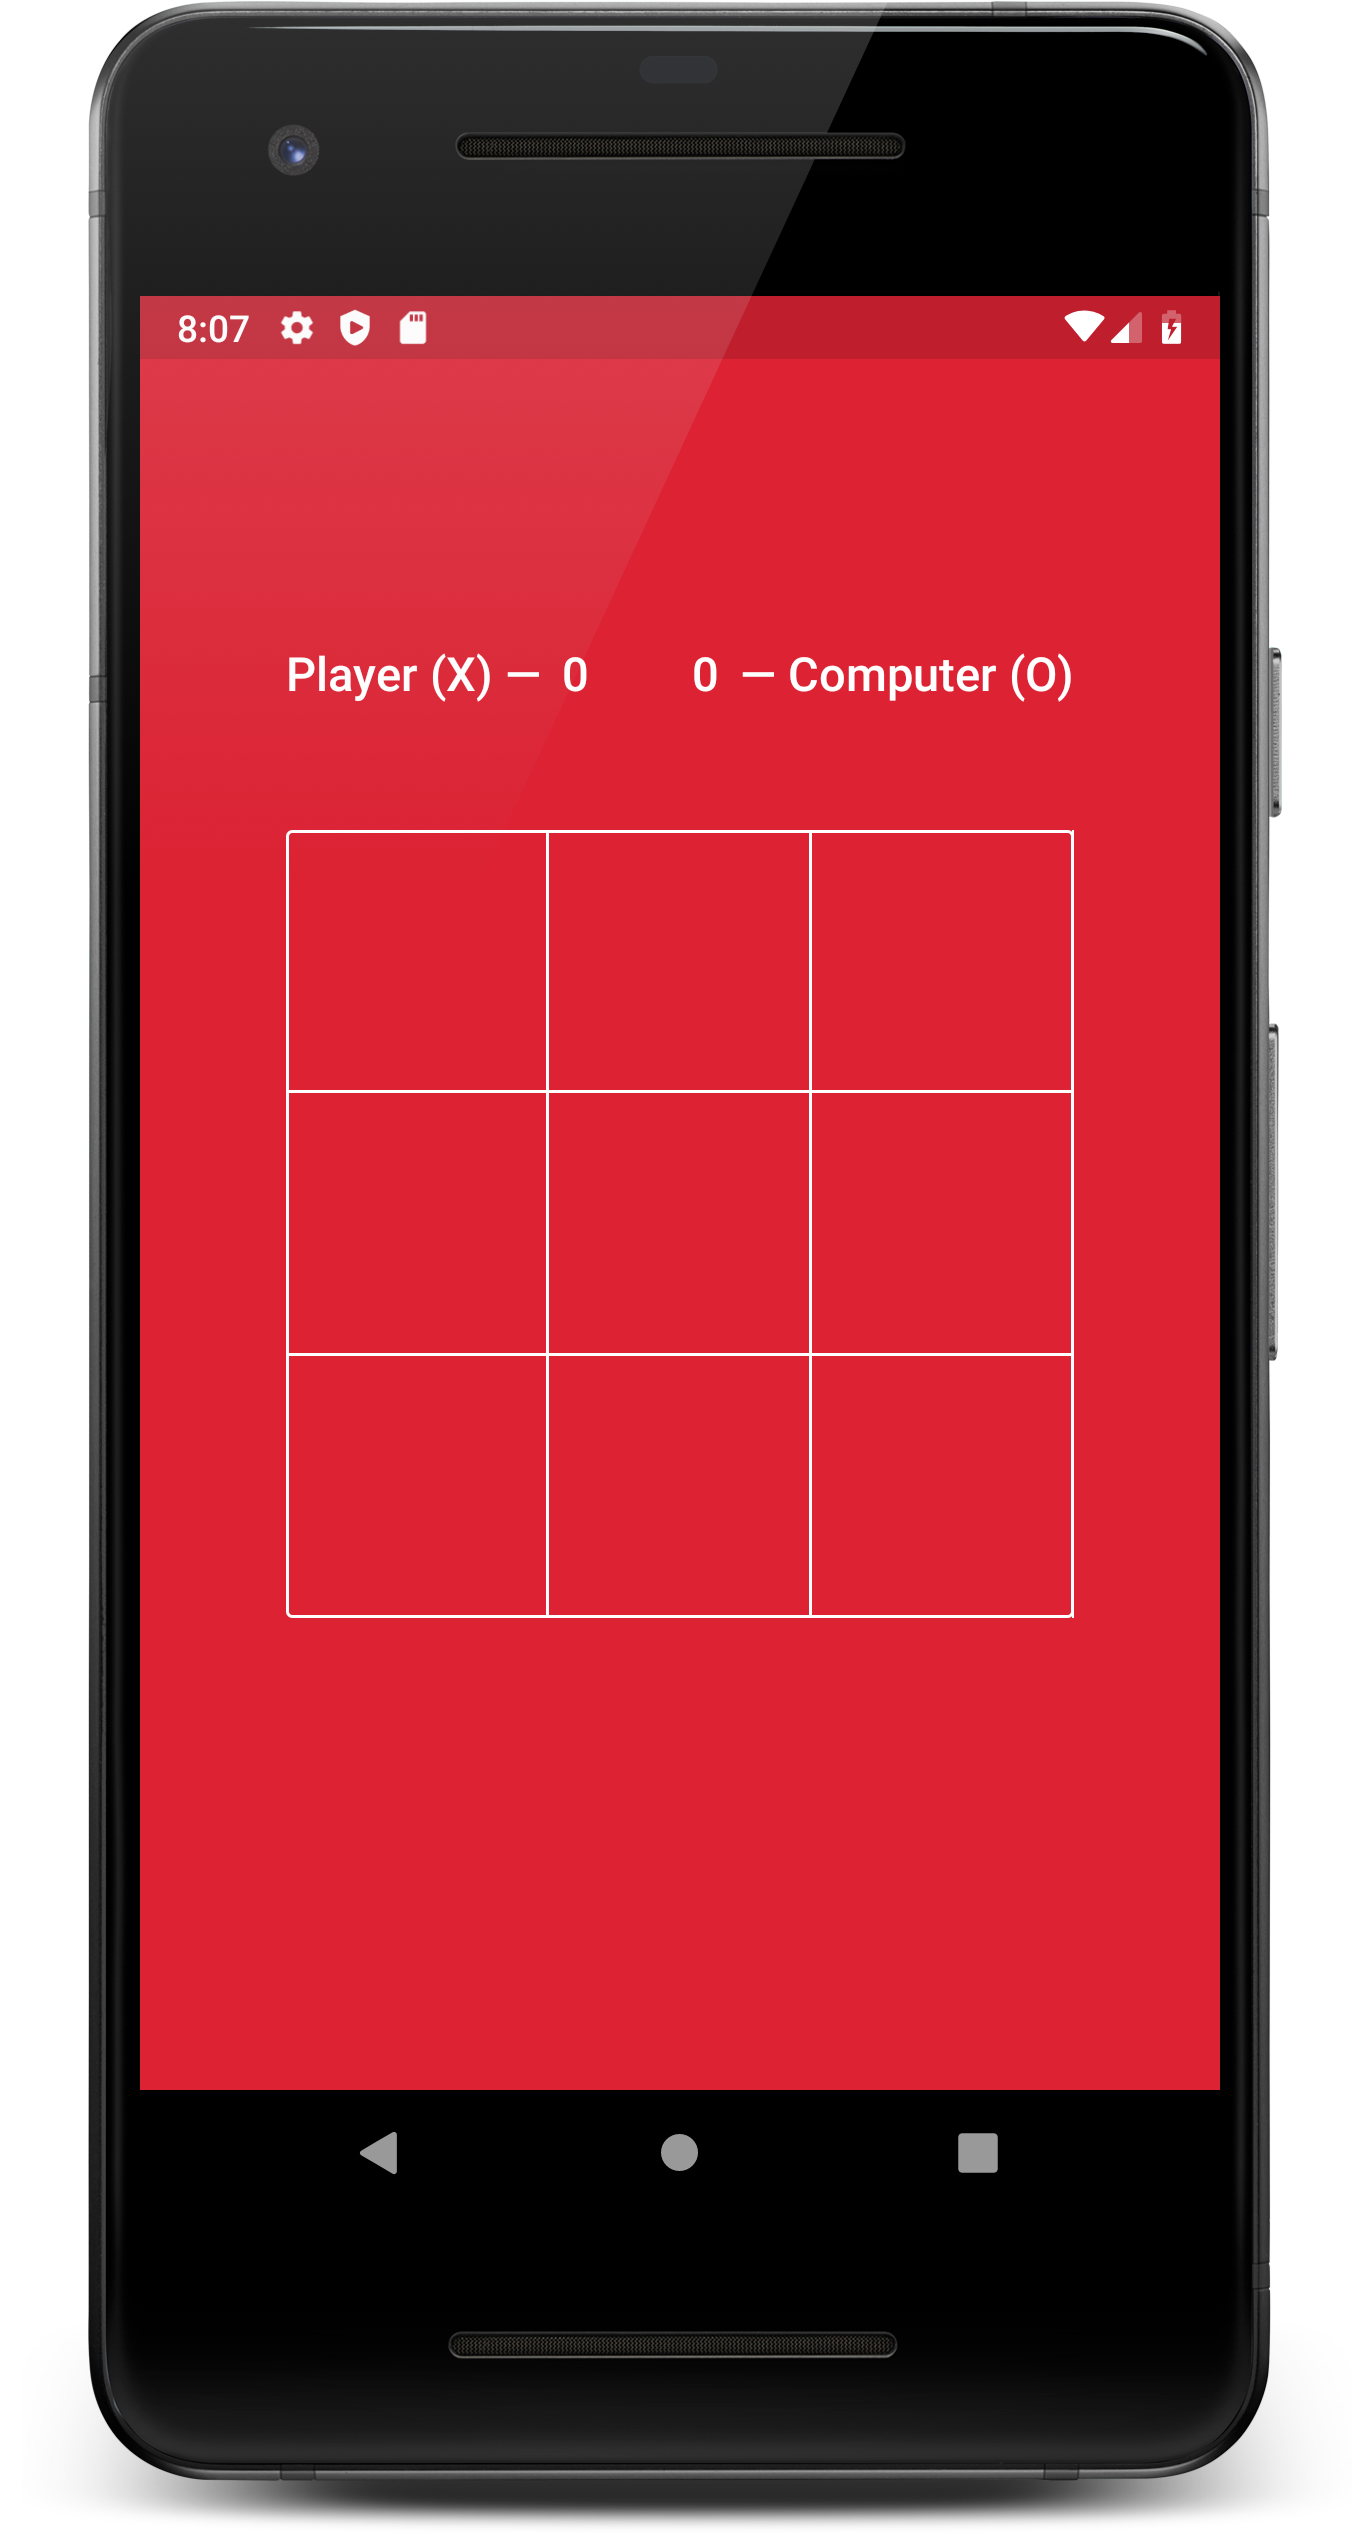
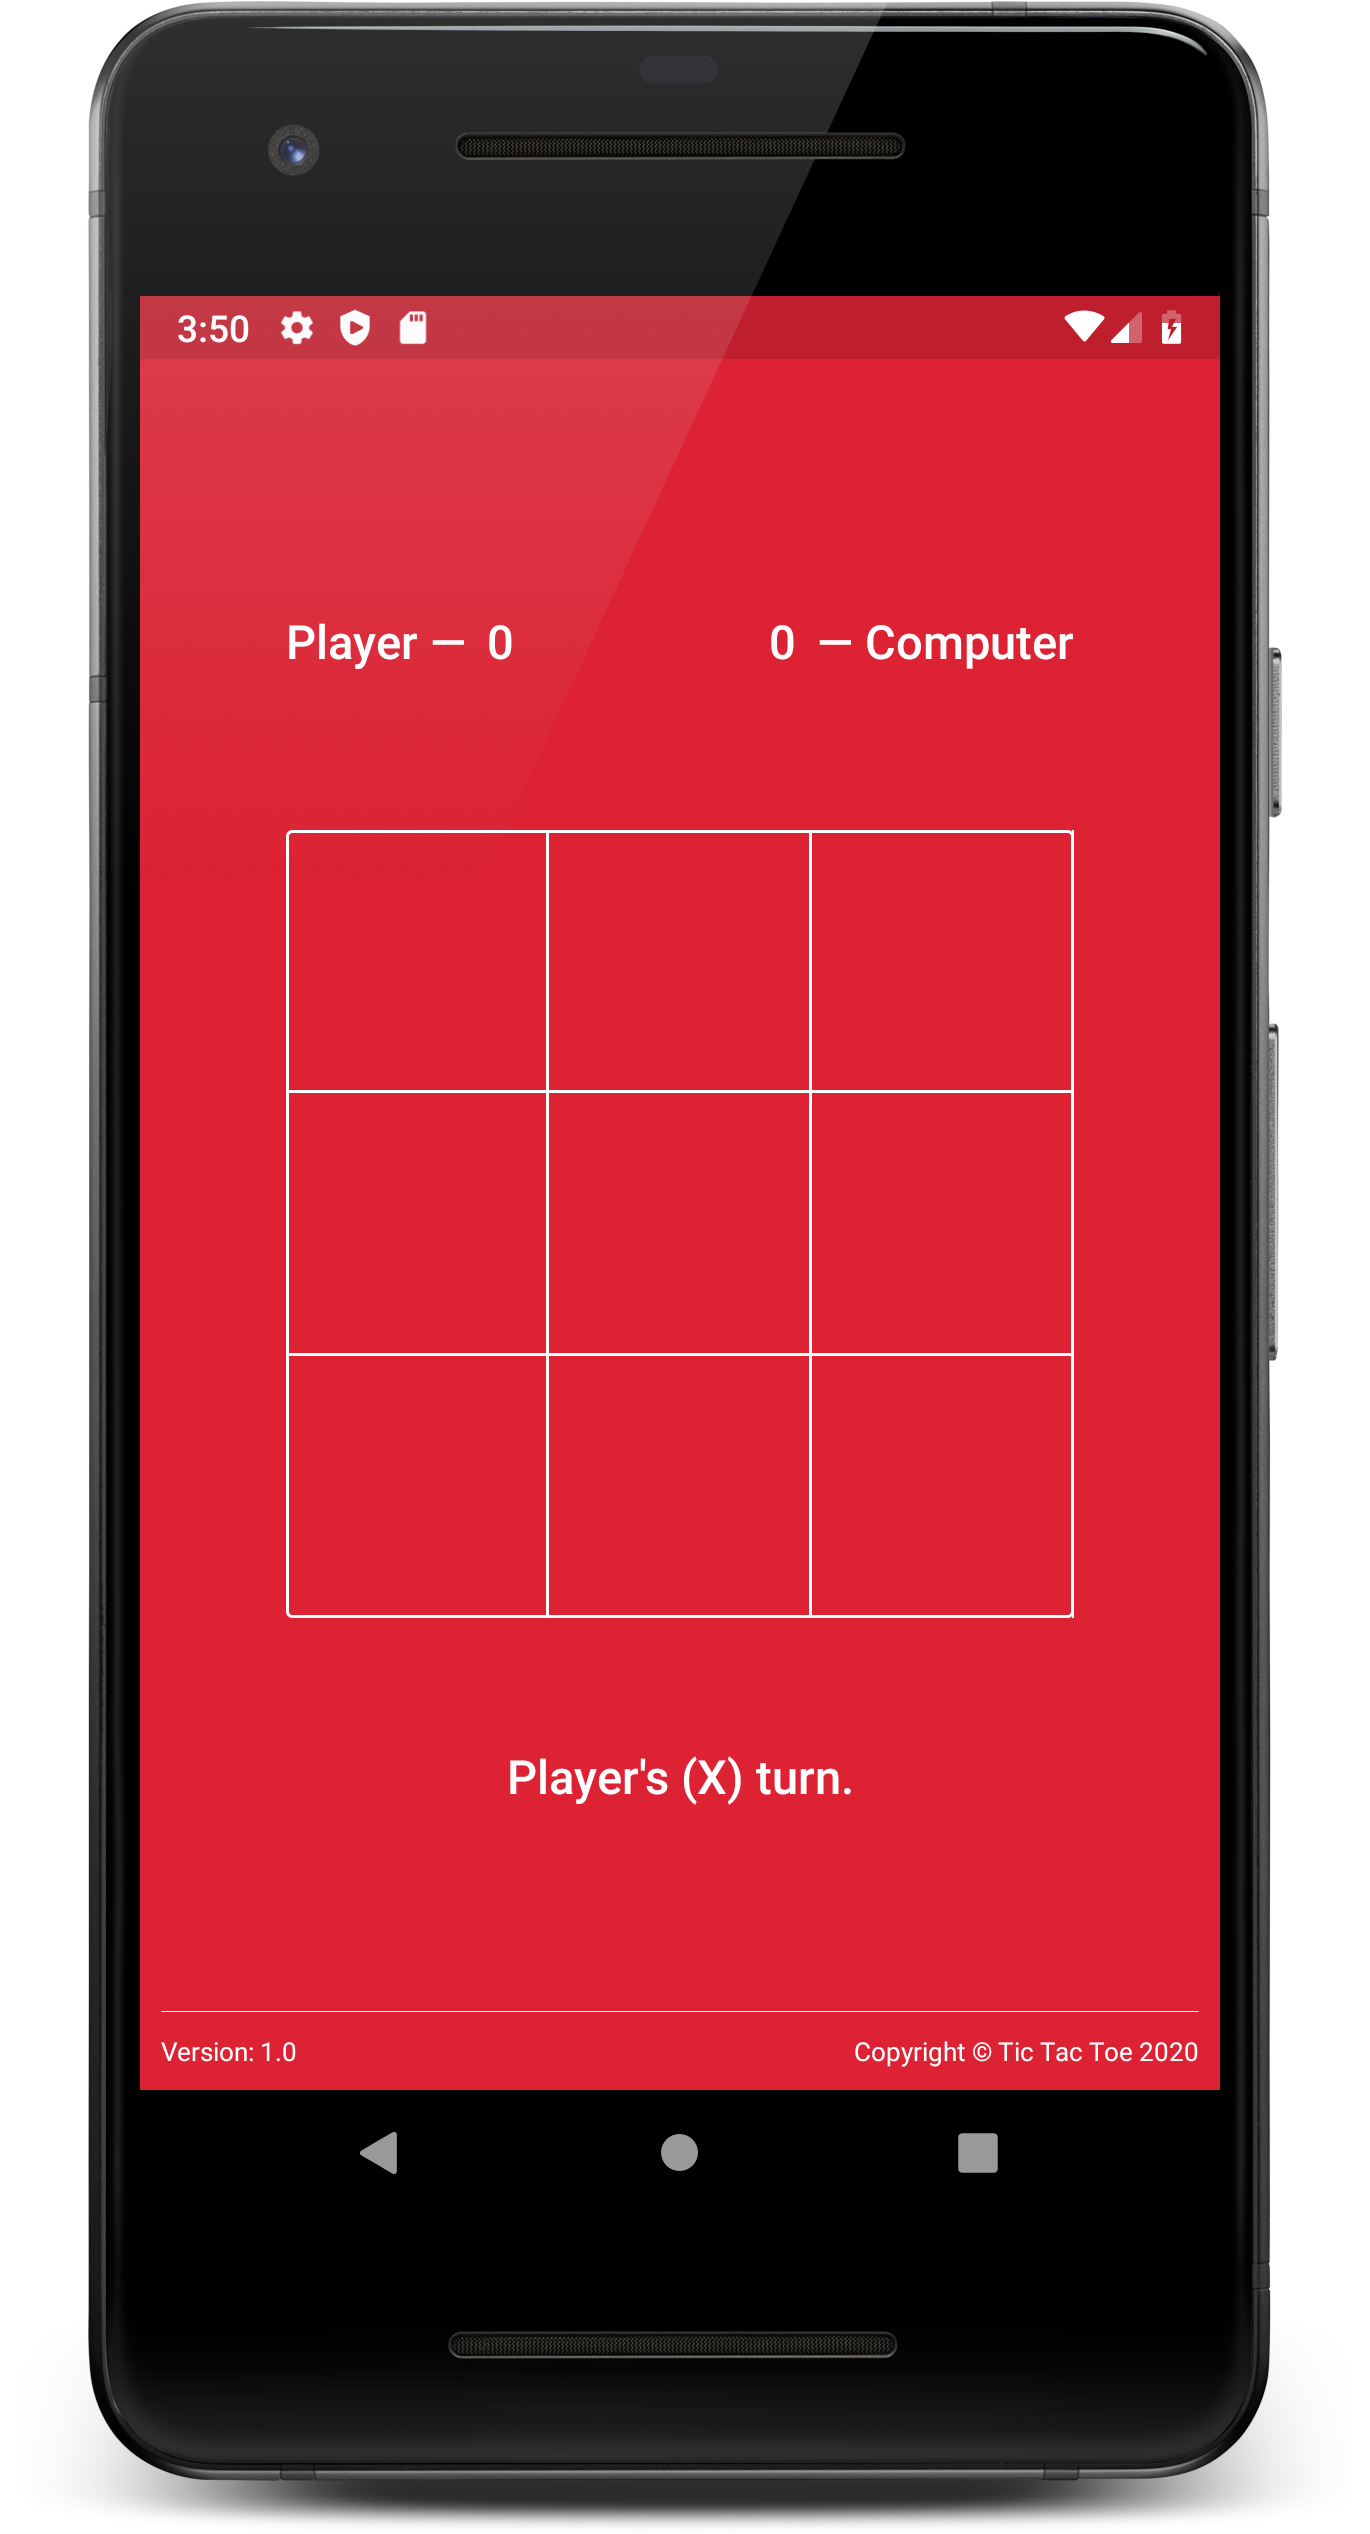
Added App Version and Updated Screenshots.

diff --git a/app/src/main/java/com/kpgn/tictactoe/activity/GameActivity.java b/app/src/main/java/com/kpgn/tictactoe/activity/GameActivity.java
@@ -6,6 +6,7 @@ import android.view.View;
 import android.widget.ImageView;
 import android.widget.TextView;
 
+import com.kpgn.tictactoe.BuildConfig;
 import com.kpgn.tictactoe.R;
 import com.kpgn.tictactoe.entity.GameState;
 import com.kpgn.tictactoe.entity.Player;
@@ -61,6 +62,9 @@ public class GameActivity extends AppCompatActivity {
     @BindView(R.id.tv_result)
     TextView mResult;
 
+    @BindView(R.id.tv_app_version)
+    TextView mAppVersion;
+
     private ImageView[][] imageViewList = new ImageView[3][3];
     private View[][] containerList = new View[3][3];
     private char[][] currentGameBoard = new char[3][3];
@@ -89,6 +93,8 @@ public class GameActivity extends AppCompatActivity {
     }
 
     private void initValues() {
+        mAppVersion.setText(String.format(getResources().getString(R.string.app_version_text), BuildConfig.VERSION_NAME));
+
         imageViewList[0] = imageViewListRow1;
         imageViewList[1] = imageViewListRow2;
         imageViewList[2] = imageViewListRow3;
